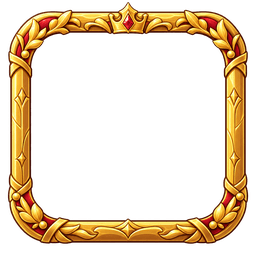
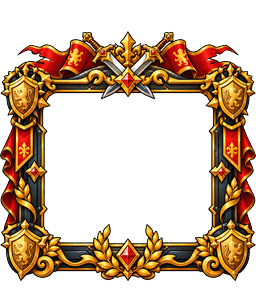
정복자 테두리
Claude-Session: https://claude.ai/code/session_011AypWsTwCXy5ahmKUPDYwt

diff --git a/sw.js b/sw.js
@@ -1,6 +1,6 @@
 /* 왕이 되는 그날까지 — 오프라인 실행용 서비스 워커 (tools/build_sw.py가 만듦, 직접 고치지 말 것) */
-const VERSION='3a3a8cc578';
-const MAP={"assets/bg/ash_far.png":"abfdc7ad7e","assets/bg/ash_ground.png":"fbd17f65c8","assets/bg/ash_mid.png":"bf807812ec","assets/bg/ash_sky.png":"300201d8a2","assets/bg/canyon_far.png":"a9cc422fed","assets/bg/canyon_ground.png":"d5f682c619","assets/bg/canyon_mid.png":"e5e4324591","assets/bg/canyon_sky.png":"9c202a64b5","assets/bg/dusk_far.png":"f566503025","assets/bg/dusk_ground.png":"d4760254fd","assets/bg/dusk_mid.png":"e0989d31a1","assets/bg/dusk_sky.png":"c82f7b61d3","assets/bg/erdan_far.png":"d094fc7ce5","assets/bg/erdan_ground.png":"d3529606e8","assets/bg/erdan_mid.png":"c8ad3804c1","assets/bg/erdan_sky.png":"1e05f8731e","assets/bg/frost_far.png":"19dad2ce88","assets/bg/frost_ground.png":"3b9d5fb014","assets/bg/frost_mid.png":"69a80fb601","assets/bg/frost_sky.png":"955f847347","assets/characters/brida_attack.png":"8a08e6bed8","assets/characters/brida_hit.png":"917e69900f","assets/characters/brida_idle.png":"9d37c07a5e","assets/characters/brida_walk.png":"35456db495","assets/characters/bron_attack.png":"3a0e0caf42","assets/characters/bron_hit.png":"84a7154e77","assets/characters/bron_idle.png":"61229dcc5b","assets/characters/bron_walk.png":"7dad3ba0f2","assets/characters/daisy_attack.png":"4b7c1426b9","assets/characters/daisy_hit.png":"8f1a0878af","assets/characters/daisy_idle.png":"61377c6830","assets/characters/daisy_walk.png":"d5f2435e50","assets/characters/gordon_attack.png":"68652efe05","assets/characters/gordon_hit.png":"c801ae79b5","assets/characters/gordon_idle.png":"3784327d72","assets/characters/gordon_walk.png":"2a61a74afb","assets/characters/haral_attack.png":"978f3afc3f","assets/characters/haral_hit.png":"213362f649","assets/characters/haral_idle.png":"8bf0bf6d20","assets/characters/haral_walk.png":"39e8f29d2f","assets/characters/kael_attack.png":"dbd47d1705","assets/characters/kael_hit.png":"b0fbed0ea5","assets/characters/kael_idle.png":"29cdfa8cdc","assets/characters/kael_walk.png":"884487f656","assets/characters/luka_attack.png":"10b694870b","assets/characters/luka_hit.png":"00d56f7f82","assets/characters/luka_idle.png":"0c7c261f4e","assets/characters/luka_walk.png":"ffde5d0b12","assets/characters/margo_attack.png":"5801b486be","assets/characters/margo_hit.png":"1340b2a211","assets/characters/margo_idle.png":"d44c7fa00a","assets/characters/margo_walk.png":"86be37ce75","assets/characters/nella_attack.png":"c56d9ca13c","assets/characters/nella_hit.png":"4b975ad670","assets/characters/nella_idle.png":"c666efcc20","assets/characters/nella_walk.png":"e4712b243c","assets/characters/riel_attack.png":"08dc86ec82","assets/characters/riel_hit.png":"22eb8eaca6","assets/characters/riel_idle.png":"3cf3652c06","assets/characters/riel_walk.png":"d429ca1f71","assets/crops/crop_carrot_1.png":"f521f1b21a","assets/crops/crop_carrot_2.png":"96412cae61","assets/crops/crop_carrot_3.png":"0caab08be8","assets/crops/crop_carrot_4.png":"631ee0ae4c","assets/crops/crop_pumpkin_1.png":"17da246fd2","assets/crops/crop_pumpkin_2.png":"4bd771eea2","assets/crops/crop_pumpkin_3.png":"b0e0de0917","assets/crops/crop_pumpkin_4.png":"4199c151ff","assets/crops/crop_wheat_1.png":"b2c4cba4cd","assets/crops/crop_wheat_2.png":"9f43ac98c5","assets/crops/crop_wheat_3.png":"1980c09851","assets/crops/crop_wheat_4.png":"96d9a3ad42","assets/crops/plot_empty.png":"bf40b6ed45","assets/fonts/hahmlet-500.woff2":"2e21f9e04c","assets/fonts/hahmlet-700.woff2":"cff1c42d55","assets/fonts/plexkr-400.woff2":"2185fb2e58","assets/fonts/plexkr-600.woff2":"760cba76f5","assets/fx/fx_bees.png":"a77e742ff9","assets/fx/fx_coin.png":"83d65bf09a","assets/fx/fx_crit.png":"08659b9d49","assets/fx/fx_harpoon.png":"84a4e2831d","assets/fx/fx_heal.png":"9ceeb9de2e","assets/fx/fx_hit.png":"b9b3abbcaf","assets/fx/fx_skill_brida.png":"55e34584e8","assets/fx/fx_skill_bron.png":"ecbc795a27","assets/fx/fx_skill_daisy.png":"4f3bb837b2","assets/fx/fx_skill_gordon.png":"1e8ac2eb87","assets/fx/fx_skill_haral.png":"5e1499b5c7","assets/fx/fx_skill_kael.png":"81aabe4d33","assets/fx/fx_skill_luka.png":"85cac3f606","assets/fx/fx_skill_margo.png":"ac0d3edc16","assets/fx/fx_skill_nella.png":"e508630a6f","assets/fx/fx_skill_riel.png":"47270c84f8","assets/fx/fx_soup.png":"4b941315f8","assets/gem/gem_pack_1.png":"fbaa0f6542","assets/gem/gem_pack_2.png":"89bccb5745","assets/gem/gem_pack_3.png":"5b0c3058fd","assets/gem/gem_pack_4.png":"4b01620dbd","assets/gem/gem_pack_5.png":"3d29e897fe","assets/gem/gem_pack_6.png":"5164494272","assets/gem/ui_gem.png":"d72701ba7d","assets/icon/apple-touch-icon.png":"e50c9e6bf1","assets/icon/favicon-16.png":"2db4311b5d","assets/icon/favicon-32.png":"440db49613","assets/icon/icon-192.png":"441e2997bd","assets/icon/icon-512.png":"eda2be997b","assets/illust/illust_join.jpg":"4d0406de00","assets/illust/illust_offline.jpg":"809bf511a2","assets/illust/illust_prologue.jpg":"9beba365b5","assets/illust/illust_retire.jpg":"74ff311a7f","assets/illust/illust_title.jpg":"006adb3633","assets/map/ash_boss.png":"a8be9e52dc","assets/map/ash_enemy.png":"d2262367aa","assets/map/canyon_boss.png":"6b7c17a49c","assets/map/canyon_enemy.png":"e2d7d4ebcd","assets/map/capital_locked.png":"c828d1f67a","assets/map/capital_open.png":"cee360a677","assets/map/dusk_boss.png":"dbf6d0b566","assets/map/dusk_enemy.png":"543dbb2608","assets/map/erdan_boss.png":"63719713d5","assets/map/erdan_enemy.png":"b3c3a8a4e9","assets/map/frost_boss.png":"6ec913cade","assets/map/frost_enemy.png":"87e0ecc588","assets/monsters/bat_shadow_attack.png":"733f900992","assets/monsters/bat_shadow_hit.png":"6c6777143a","assets/monsters/bat_shadow_walk.png":"4bdf69f59e","assets/monsters/boss_aldor_attack.png":"98d147de33","assets/monsters/boss_aldor_hit.png":"8ef2631028","assets/monsters/boss_aldor_walk.png":"dc30c29780","assets/monsters/boss_gromak_attack.png":"79580dc79a","assets/monsters/boss_gromak_hit.png":"8afa36ddae","assets/monsters/boss_gromak_walk.png":"508e49c3f2","assets/monsters/boss_ignis_attack.png":"b3792ddac0","assets/monsters/boss_ignis_hit.png":"39874ec8ec","assets/monsters/boss_ignis_walk.png":"745f03cf3c","assets/monsters/boss_morbas_attack.png":"b90b8b6dbd","assets/monsters/boss_morbas_hit.png":"b2e28fd059","assets/monsters/boss_morbas_walk.png":"c14aa48d24","assets/monsters/boss_seril_attack.png":"87c378c111","assets/monsters/boss_seril_hit.png":"8ee606e7e9","assets/monsters/boss_seril_walk.png":"630659de62","assets/monsters/goblin_gold_attack.png":"64a6f6f451","assets/monsters/goblin_gold_hit.png":"8b27eac950","assets/monsters/goblin_gold_walk.png":"c8a6e5c138","assets/monsters/goblin_pick_attack.png":"fa8e5c883f","assets/monsters/goblin_pick_hit.png":"066af0e709","assets/monsters/goblin_pick_walk.png":"e1f6d5d36a","assets/monsters/golem_steel_attack.png":"07e873d945","assets/monsters/golem_steel_hit.png":"67115529dc","assets/monsters/golem_steel_walk.png":"af9989172a","assets/monsters/imp_flame_attack.png":"9855e4f5e3","assets/monsters/imp_flame_hit.png":"ac4e28b83a","assets/monsters/imp_flame_walk.png":"6a0a835904","assets/monsters/scarecrow_cursed_attack.png":"19c1676923","assets/monsters/scarecrow_cursed_hit.png":"07f43ba22a","assets/monsters/scarecrow_cursed_walk.png":"0b7170d79c","assets/monsters/skeleton_frost_attack.png":"07648d88b9","assets/monsters/skeleton_frost_hit.png":"fcc108c10e","assets/monsters/skeleton_frost_walk.png":"74294ba7e2","assets/monsters/slime_ash_attack.png":"031d213acf","assets/monsters/slime_ash_hit.png":"ce2fa4d31b","assets/monsters/slime_ash_walk.png":"03ae7c49a4","assets/monsters/slime_plague_attack.png":"d4f6075abb","assets/monsters/slime_plague_hit.png":"bb74341a7e","assets/monsters/slime_plague_walk.png":"151b47bf12","assets/monsters/wolf_shadow_attack.png":"a6a83b34b8","assets/monsters/wolf_shadow_hit.png":"82a1af6e1d","assets/monsters/wolf_shadow_walk.png":"1251356e09","assets/monsters/wraith_frost_attack.png":"f5f41001fb","assets/monsters/wraith_frost_hit.png":"6348e92571","assets/monsters/wraith_frost_walk.png":"131c82c5ac","assets/portraits/portrait_aldor_idle.png":"07633d6214","assets/portraits/portrait_brida_idle.png":"cdf6882dec","assets/portraits/portrait_brida_laugh.png":"cde04938db","assets/portraits/portrait_bron_idle.png":"eb202419e5","assets/portraits/portrait_bron_laugh.png":"067dda71a1","assets/portraits/portrait_daisy_idle.png":"8b95fff77a","assets/portraits/portrait_daisy_laugh.png":"38c0f6471b","assets/portraits/portrait_gordon_idle.png":"9115efb052","assets/portraits/portrait_gordon_laugh.png":"03b62ce20f","assets/portraits/portrait_gromak_idle.png":"b4510b3437","assets/portraits/portrait_haral_idle.png":"8057bc4036","assets/portraits/portrait_haral_laugh.png":"c213936ee8","assets/portraits/portrait_ignis_idle.png":"6bb8479476","assets/portraits/portrait_kael_flustered.png":"dcbbe42cd0","assets/portraits/portrait_kael_idle.png":"2faad1bb9c","assets/portraits/portrait_kael_smile.png":"880d0b870c","assets/portraits/portrait_kael_surprised.png":"f49dfef839","assets/portraits/portrait_luka_idle.png":"ef693f34ba","assets/portraits/portrait_luka_laugh.png":"aafc2ba36c","assets/portraits/portrait_luminar_angry.png":"406fff108e","assets/portraits/portrait_luminar_moved.png":"ac97db5b14","assets/portraits/portrait_luminar_proud.png":"5a078f2d6f","assets/portraits/portrait_margo_idle.png":"a390d73c66","assets/portraits/portrait_margo_laugh.png":"6a6d2380f8","assets/portraits/portrait_marta_idle.png":"d86a9956f4","assets/portraits/portrait_morbas_idle.png":"1ed03a2888","assets/portraits/portrait_nella_idle.png":"b11813c857","assets/portraits/portrait_nella_laugh.png":"05ff86fd98","assets/portraits/portrait_pete_idle.png":"d14833cc91","assets/portraits/portrait_riel_idle.png":"31ca54792c","assets/portraits/portrait_riel_laugh.png":"40f5ce426b","assets/portraits/portrait_seril_idle.png":"52fb8d0eb1","assets/portraits/portrait_toby_idle.png":"ea6aef3ceb","assets/profile/badge_basket.png":"19ad639d98","assets/profile/badge_champ.png":"87c7d121ac","assets/profile/badge_chest.png":"1997070288","assets/profile/badge_crown1.png":"87c7d121ac","assets/profile/badge_crown2.png":"87c7d121ac","assets/profile/badge_crown3.png":"87c7d121ac","assets/profile/badge_goblin.png":"a97a7db198","assets/profile/badge_horns.png":"eb77cb7f93","assets/profile/badge_king.png":"87c7d121ac","assets/profile/badge_pumpkin.png":"e191405060","assets/profile/badge_rebuild.png":"100b0d8092","assets/profile/badge_retire.png":"68a96ee52e","assets/profile/badge_stew.png":"c5615ba22c","assets/profile/badge_top10.png":"87c7d121ac","assets/profile/frame_amethyst.png":"33596ec882","assets/profile/frame_conquer.png":"ac627fc7a3","assets/profile/frame_goblin.png":"206ee5a860","assets/profile/frame_gold.png":"ac627fc7a3","assets/profile/frame_harvest.png":"1b0b11ae0b","assets/profile/frame_holy.png":"1af08de6e7","assets/profile/frame_royal.png":"e21f45a33a","assets/profile/frame_season.png":"6f46cd6c32","assets/profile/frame_silver.png":"1db41ebcfa","assets/profile/frame_straw.png":"0810bf19b1","assets/profile/frame_wood.png":"99f33b8a46","assets/relic/relic_armor_1.png":"16d76a13c5","assets/relic/relic_armor_2.png":"87fb210070","assets/relic/relic_armor_3.png":"dd11fe2783","assets/relic/relic_boots_1.png":"d9a8c049ac","assets/relic/relic_boots_2.png":"efd27637b0","assets/relic/relic_boots_3.png":"5a612f2e27","assets/relic/relic_gloves_1.png":"5e8bee64d0","assets/relic/relic_gloves_2.png":"6795c922c5","assets/relic/relic_gloves_3.png":"67e14c6405","assets/relic/relic_helm_1.png":"455c59b819","assets/relic/relic_helm_2.png":"d18874e0e3","assets/relic/relic_helm_3.png":"cf800e2dad","assets/relic/relic_ring_1.png":"10edfdff76","assets/relic/relic_ring_2.png":"78a2cc0f51","assets/relic/relic_ring_3.png":"b2278ff8ee","assets/relic/relic_weapon_1.png":"dcc7c7540a","assets/relic/relic_weapon_2.png":"5fdd6cc2b3","assets/relic/relic_weapon_3.png":"f0135343bd","assets/skills/skill_brida.png":"0aa718bf0d","assets/skills/skill_bron.png":"08c7b35e76","assets/skills/skill_daisy.png":"8ee38fd0b9","assets/skills/skill_gordon.png":"28dcc7dd68","assets/skills/skill_haral.png":"d392acbc14","assets/skills/skill_kael.png":"85c628e6a9","assets/skills/skill_luka.png":"ed4206fe68","assets/skills/skill_margo.png":"1498522d74","assets/skills/skill_nella.png":"04dc833078","assets/skills/skill_riel.png":"7aca6249d7","assets/ui/banner_capture.png":"cdce0b7ac7","assets/ui/bld_apiary.png":"1c86733003","assets/ui/bld_diner.png":"386a2fd60f","assets/ui/bld_dock.png":"f0409530e4","assets/ui/bld_farm.png":"ba8a24d8a9","assets/ui/bld_inn.png":"6857ad2ff5","assets/ui/bld_mine.png":"db914dbca5","assets/ui/boss_aura_commander.png":"3f9d291d94","assets/ui/boss_aura_lord.png":"785308d542","assets/ui/boss_mark_commander.png":"77e1e1b4bb","assets/ui/boss_mark_lord.png":"123c1b4432","assets/ui/btn_auto.png":"bb952f4274","assets/ui/btn_x1.png":"f15e57f854","assets/ui/btn_x2.png":"cc3f2a2268","assets/ui/buff_atk.png":"9a886d1ff6","assets/ui/buff_crit.png":"2b2750f8d0","assets/ui/buff_gold.png":"1a7ca0cf7c","assets/ui/buff_spd.png":"dae9c3f56c","assets/ui/card_back.png":"2e995c839d","assets/ui/card_pack3.png":"c7e9ba66d2","assets/ui/card_pack30.png":"bae3246a77","assets/ui/dish_bread.png":"cfa0004d31","assets/ui/dish_grill.png":"b3f6aa56e7","assets/ui/dish_pie.png":"ef179cd895","assets/ui/dish_stew.png":"75628aa305","assets/ui/frame_dialog.png":"1d1d83a399","assets/ui/frame_epic.png":"69a0cfc775","assets/ui/frame_legendary.png":"9a8f6852ac","assets/ui/frame_mythic.png":"83201ca46e","assets/ui/frame_normal.png":"01b42af2db","assets/ui/frame_popup.png":"20dc37c6ff","assets/ui/frame_rare.png":"6e60a9625d","assets/ui/frame_uncommon.png":"c1f9ee4e31","assets/ui/gold_pack1.png":"86f82d080a","assets/ui/gold_pack2.png":"fa9b76580c","assets/ui/gold_pack3.png":"fb7d21eb5f","assets/ui/hd_mail.png":"c7d765daa3","assets/ui/hd_profile.png":"d6f1533dc1","assets/ui/hd_rank.png":"3d843cc8fc","assets/ui/hd_settings.png":"800b585221","assets/ui/icon_mail.png":"0218f23f44","assets/ui/item_carrot.png":"9d51a5ea72","assets/ui/item_fish.png":"2f62e8797b","assets/ui/item_honey.png":"fbdf3d5e01","assets/ui/item_ore.png":"6eb3cdcb49","assets/ui/item_pumpkin.png":"074c67fcb2","assets/ui/item_wheat.png":"69fac25d82","assets/ui/job_cook.png":"8ecd134595","assets/ui/job_fisher.png":"f8d9a89f41","assets/ui/job_keeper.png":"cac89bfa34","assets/ui/job_miner.png":"004c57a1e5","assets/ui/logo.png":"2d22e7ca80","assets/ui/node_boss.png":"c79760401f","assets/ui/node_captured.png":"0a83211c2b","assets/ui/node_current.png":"c4a3ba8982","assets/ui/node_enemy.png":"55c59af8ea","assets/ui/rank_count.png":"f0e9a8bd8c","assets/ui/rank_duke.png":"80cb0fc6fa","assets/ui/rank_farmer.png":"493f3b96e1","assets/ui/rank_guard.png":"8a70f1c39c","assets/ui/rank_king.png":"a34e27d982","assets/ui/rank_knight.png":"78adabb17a","assets/ui/rank_lord.png":"77bb49441a","assets/ui/relic_chest.png":"9311479aa1","assets/ui/seed_carrot.png":"f21317e672","assets/ui/seed_pumpkin.png":"de9e24a972","assets/ui/seed_wheat.png":"bc87c11aee","assets/ui/slot_armor.png":"83816d046b","assets/ui/slot_boots.png":"01c1c89cdb","assets/ui/slot_gloves.png":"483d5aba63","assets/ui/slot_hat.png":"45c39d6e0c","assets/ui/slot_ring.png":"3707240c55","assets/ui/slot_weapon.png":"d76a948b02","assets/ui/tab_equipment.png":"cebacb923b","assets/ui/tab_map.png":"5178bc1d54","assets/ui/tab_party.png":"80412a0e78","assets/ui/tab_training.png":"f090ee0719","assets/ui/tab_village.png":"87cabcf9cb","assets/ui/ui_boss_mark.png":"8fe434b274","assets/ui/ui_gold.png":"12070643fb","assets/ui/upg_atk.png":"f736f9ddc3","assets/ui/upg_crit.png":"8cf9c877a8","assets/ui/upg_hp.png":"f3d35d179c","assets/ui/upg_spd.png":"6d0b67053f","assets/ui/village_skill.png":"651e2edbde","assets/village/apiary_built.png":"001bb8753d","assets/village/apiary_ruin.png":"42a1170bd6","assets/village/diner_built.png":"50f46b5946","assets/village/diner_ruin.png":"e09f4a687d","assets/village/dock_built.png":"10894845e0","assets/village/dock_ruin.png":"975d3eea4f","assets/village/farm_built.png":"2331d98d5b","assets/village/farm_ruin.png":"6f4bde33f4","assets/village/inn_built.png":"75f5599f0b","assets/village/inn_ruin.png":"31dfd01982","assets/village/mine_built.png":"85b66e411e","assets/village/mine_ruin.png":"b773da1822","assets/village/village_bg.jpg":"d7046fd11a","favicon.ico":"48e226949a","manifest.webmanifest":"cba9531993"};
+const VERSION='7b1aa3d39a';
+const MAP={"assets/bg/ash_far.png":"abfdc7ad7e","assets/bg/ash_ground.png":"fbd17f65c8","assets/bg/ash_mid.png":"bf807812ec","assets/bg/ash_sky.png":"300201d8a2","assets/bg/canyon_far.png":"a9cc422fed","assets/bg/canyon_ground.png":"d5f682c619","assets/bg/canyon_mid.png":"e5e4324591","assets/bg/canyon_sky.png":"9c202a64b5","assets/bg/dusk_far.png":"f566503025","assets/bg/dusk_ground.png":"d4760254fd","assets/bg/dusk_mid.png":"e0989d31a1","assets/bg/dusk_sky.png":"c82f7b61d3","assets/bg/erdan_far.png":"d094fc7ce5","assets/bg/erdan_ground.png":"d3529606e8","assets/bg/erdan_mid.png":"c8ad3804c1","assets/bg/erdan_sky.png":"1e05f8731e","assets/bg/frost_far.png":"19dad2ce88","assets/bg/frost_ground.png":"3b9d5fb014","assets/bg/frost_mid.png":"69a80fb601","assets/bg/frost_sky.png":"955f847347","assets/characters/brida_attack.png":"8a08e6bed8","assets/characters/brida_hit.png":"917e69900f","assets/characters/brida_idle.png":"9d37c07a5e","assets/characters/brida_walk.png":"35456db495","assets/characters/bron_attack.png":"3a0e0caf42","assets/characters/bron_hit.png":"84a7154e77","assets/characters/bron_idle.png":"61229dcc5b","assets/characters/bron_walk.png":"7dad3ba0f2","assets/characters/daisy_attack.png":"4b7c1426b9","assets/characters/daisy_hit.png":"8f1a0878af","assets/characters/daisy_idle.png":"61377c6830","assets/characters/daisy_walk.png":"d5f2435e50","assets/characters/gordon_attack.png":"68652efe05","assets/characters/gordon_hit.png":"c801ae79b5","assets/characters/gordon_idle.png":"3784327d72","assets/characters/gordon_walk.png":"2a61a74afb","assets/characters/haral_attack.png":"978f3afc3f","assets/characters/haral_hit.png":"213362f649","assets/characters/haral_idle.png":"8bf0bf6d20","assets/characters/haral_walk.png":"39e8f29d2f","assets/characters/kael_attack.png":"dbd47d1705","assets/characters/kael_hit.png":"b0fbed0ea5","assets/characters/kael_idle.png":"29cdfa8cdc","assets/characters/kael_walk.png":"884487f656","assets/characters/luka_attack.png":"10b694870b","assets/characters/luka_hit.png":"00d56f7f82","assets/characters/luka_idle.png":"0c7c261f4e","assets/characters/luka_walk.png":"ffde5d0b12","assets/characters/margo_attack.png":"5801b486be","assets/characters/margo_hit.png":"1340b2a211","assets/characters/margo_idle.png":"d44c7fa00a","assets/characters/margo_walk.png":"86be37ce75","assets/characters/nella_attack.png":"c56d9ca13c","assets/characters/nella_hit.png":"4b975ad670","assets/characters/nella_idle.png":"c666efcc20","assets/characters/nella_walk.png":"e4712b243c","assets/characters/riel_attack.png":"08dc86ec82","assets/characters/riel_hit.png":"22eb8eaca6","assets/characters/riel_idle.png":"3cf3652c06","assets/characters/riel_walk.png":"d429ca1f71","assets/crops/crop_carrot_1.png":"f521f1b21a","assets/crops/crop_carrot_2.png":"96412cae61","assets/crops/crop_carrot_3.png":"0caab08be8","assets/crops/crop_carrot_4.png":"631ee0ae4c","assets/crops/crop_pumpkin_1.png":"17da246fd2","assets/crops/crop_pumpkin_2.png":"4bd771eea2","assets/crops/crop_pumpkin_3.png":"b0e0de0917","assets/crops/crop_pumpkin_4.png":"4199c151ff","assets/crops/crop_wheat_1.png":"b2c4cba4cd","assets/crops/crop_wheat_2.png":"9f43ac98c5","assets/crops/crop_wheat_3.png":"1980c09851","assets/crops/crop_wheat_4.png":"96d9a3ad42","assets/crops/plot_empty.png":"bf40b6ed45","assets/fonts/hahmlet-500.woff2":"2e21f9e04c","assets/fonts/hahmlet-700.woff2":"cff1c42d55","assets/fonts/plexkr-400.woff2":"2185fb2e58","assets/fonts/plexkr-600.woff2":"760cba76f5","assets/fx/fx_bees.png":"a77e742ff9","assets/fx/fx_coin.png":"83d65bf09a","assets/fx/fx_crit.png":"08659b9d49","assets/fx/fx_harpoon.png":"84a4e2831d","assets/fx/fx_heal.png":"9ceeb9de2e","assets/fx/fx_hit.png":"b9b3abbcaf","assets/fx/fx_skill_brida.png":"55e34584e8","assets/fx/fx_skill_bron.png":"ecbc795a27","assets/fx/fx_skill_daisy.png":"4f3bb837b2","assets/fx/fx_skill_gordon.png":"1e8ac2eb87","assets/fx/fx_skill_haral.png":"5e1499b5c7","assets/fx/fx_skill_kael.png":"81aabe4d33","assets/fx/fx_skill_luka.png":"85cac3f606","assets/fx/fx_skill_margo.png":"ac0d3edc16","assets/fx/fx_skill_nella.png":"e508630a6f","assets/fx/fx_skill_riel.png":"47270c84f8","assets/fx/fx_soup.png":"4b941315f8","assets/gem/gem_pack_1.png":"fbaa0f6542","assets/gem/gem_pack_2.png":"89bccb5745","assets/gem/gem_pack_3.png":"5b0c3058fd","assets/gem/gem_pack_4.png":"4b01620dbd","assets/gem/gem_pack_5.png":"3d29e897fe","assets/gem/gem_pack_6.png":"5164494272","assets/gem/ui_gem.png":"d72701ba7d","assets/icon/apple-touch-icon.png":"e50c9e6bf1","assets/icon/favicon-16.png":"2db4311b5d","assets/icon/favicon-32.png":"440db49613","assets/icon/icon-192.png":"441e2997bd","assets/icon/icon-512.png":"eda2be997b","assets/illust/illust_join.jpg":"4d0406de00","assets/illust/illust_offline.jpg":"809bf511a2","assets/illust/illust_prologue.jpg":"9beba365b5","assets/illust/illust_retire.jpg":"74ff311a7f","assets/illust/illust_title.jpg":"006adb3633","assets/map/ash_boss.png":"a8be9e52dc","assets/map/ash_enemy.png":"d2262367aa","assets/map/canyon_boss.png":"6b7c17a49c","assets/map/canyon_enemy.png":"e2d7d4ebcd","assets/map/capital_locked.png":"c828d1f67a","assets/map/capital_open.png":"cee360a677","assets/map/dusk_boss.png":"dbf6d0b566","assets/map/dusk_enemy.png":"543dbb2608","assets/map/erdan_boss.png":"63719713d5","assets/map/erdan_enemy.png":"b3c3a8a4e9","assets/map/frost_boss.png":"6ec913cade","assets/map/frost_enemy.png":"87e0ecc588","assets/monsters/bat_shadow_attack.png":"733f900992","assets/monsters/bat_shadow_hit.png":"6c6777143a","assets/monsters/bat_shadow_walk.png":"4bdf69f59e","assets/monsters/boss_aldor_attack.png":"98d147de33","assets/monsters/boss_aldor_hit.png":"8ef2631028","assets/monsters/boss_aldor_walk.png":"dc30c29780","assets/monsters/boss_gromak_attack.png":"79580dc79a","assets/monsters/boss_gromak_hit.png":"8afa36ddae","assets/monsters/boss_gromak_walk.png":"508e49c3f2","assets/monsters/boss_ignis_attack.png":"b3792ddac0","assets/monsters/boss_ignis_hit.png":"39874ec8ec","assets/monsters/boss_ignis_walk.png":"745f03cf3c","assets/monsters/boss_morbas_attack.png":"b90b8b6dbd","assets/monsters/boss_morbas_hit.png":"b2e28fd059","assets/monsters/boss_morbas_walk.png":"c14aa48d24","assets/monsters/boss_seril_attack.png":"87c378c111","assets/monsters/boss_seril_hit.png":"8ee606e7e9","assets/monsters/boss_seril_walk.png":"630659de62","assets/monsters/goblin_gold_attack.png":"64a6f6f451","assets/monsters/goblin_gold_hit.png":"8b27eac950","assets/monsters/goblin_gold_walk.png":"c8a6e5c138","assets/monsters/goblin_pick_attack.png":"fa8e5c883f","assets/monsters/goblin_pick_hit.png":"066af0e709","assets/monsters/goblin_pick_walk.png":"e1f6d5d36a","assets/monsters/golem_steel_attack.png":"07e873d945","assets/monsters/golem_steel_hit.png":"67115529dc","assets/monsters/golem_steel_walk.png":"af9989172a","assets/monsters/imp_flame_attack.png":"9855e4f5e3","assets/monsters/imp_flame_hit.png":"ac4e28b83a","assets/monsters/imp_flame_walk.png":"6a0a835904","assets/monsters/scarecrow_cursed_attack.png":"19c1676923","assets/monsters/scarecrow_cursed_hit.png":"07f43ba22a","assets/monsters/scarecrow_cursed_walk.png":"0b7170d79c","assets/monsters/skeleton_frost_attack.png":"07648d88b9","assets/monsters/skeleton_frost_hit.png":"fcc108c10e","assets/monsters/skeleton_frost_walk.png":"74294ba7e2","assets/monsters/slime_ash_attack.png":"031d213acf","assets/monsters/slime_ash_hit.png":"ce2fa4d31b","assets/monsters/slime_ash_walk.png":"03ae7c49a4","assets/monsters/slime_plague_attack.png":"d4f6075abb","assets/monsters/slime_plague_hit.png":"bb74341a7e","assets/monsters/slime_plague_walk.png":"151b47bf12","assets/monsters/wolf_shadow_attack.png":"a6a83b34b8","assets/monsters/wolf_shadow_hit.png":"82a1af6e1d","assets/monsters/wolf_shadow_walk.png":"1251356e09","assets/monsters/wraith_frost_attack.png":"f5f41001fb","assets/monsters/wraith_frost_hit.png":"6348e92571","assets/monsters/wraith_frost_walk.png":"131c82c5ac","assets/portraits/portrait_aldor_idle.png":"07633d6214","assets/portraits/portrait_brida_idle.png":"cdf6882dec","assets/portraits/portrait_brida_laugh.png":"cde04938db","assets/portraits/portrait_bron_idle.png":"eb202419e5","assets/portraits/portrait_bron_laugh.png":"067dda71a1","assets/portraits/portrait_daisy_idle.png":"8b95fff77a","assets/portraits/portrait_daisy_laugh.png":"38c0f6471b","assets/portraits/portrait_gordon_idle.png":"9115efb052","assets/portraits/portrait_gordon_laugh.png":"03b62ce20f","assets/portraits/portrait_gromak_idle.png":"b4510b3437","assets/portraits/portrait_haral_idle.png":"8057bc4036","assets/portraits/portrait_haral_laugh.png":"c213936ee8","assets/portraits/portrait_ignis_idle.png":"6bb8479476","assets/portraits/portrait_kael_flustered.png":"dcbbe42cd0","assets/portraits/portrait_kael_idle.png":"2faad1bb9c","assets/portraits/portrait_kael_smile.png":"880d0b870c","assets/portraits/portrait_kael_surprised.png":"f49dfef839","assets/portraits/portrait_luka_idle.png":"ef693f34ba","assets/portraits/portrait_luka_laugh.png":"aafc2ba36c","assets/portraits/portrait_luminar_angry.png":"406fff108e","assets/portraits/portrait_luminar_moved.png":"ac97db5b14","assets/portraits/portrait_luminar_proud.png":"5a078f2d6f","assets/portraits/portrait_margo_idle.png":"a390d73c66","assets/portraits/portrait_margo_laugh.png":"6a6d2380f8","assets/portraits/portrait_marta_idle.png":"d86a9956f4","assets/portraits/portrait_morbas_idle.png":"1ed03a2888","assets/portraits/portrait_nella_idle.png":"b11813c857","assets/portraits/portrait_nella_laugh.png":"05ff86fd98","assets/portraits/portrait_pete_idle.png":"d14833cc91","assets/portraits/portrait_riel_idle.png":"31ca54792c","assets/portraits/portrait_riel_laugh.png":"40f5ce426b","assets/portraits/portrait_seril_idle.png":"52fb8d0eb1","assets/portraits/portrait_toby_idle.png":"ea6aef3ceb","assets/profile/badge_basket.png":"19ad639d98","assets/profile/badge_champ.png":"87c7d121ac","assets/profile/badge_chest.png":"1997070288","assets/profile/badge_crown1.png":"87c7d121ac","assets/profile/badge_crown2.png":"87c7d121ac","assets/profile/badge_crown3.png":"87c7d121ac","assets/profile/badge_goblin.png":"a97a7db198","assets/profile/badge_horns.png":"eb77cb7f93","assets/profile/badge_king.png":"87c7d121ac","assets/profile/badge_pumpkin.png":"e191405060","assets/profile/badge_rebuild.png":"100b0d8092","assets/profile/badge_retire.png":"68a96ee52e","assets/profile/badge_stew.png":"c5615ba22c","assets/profile/badge_top10.png":"87c7d121ac","assets/profile/frame_amethyst.png":"33596ec882","assets/profile/frame_conquer.png":"1ba25528f4","assets/profile/frame_goblin.png":"206ee5a860","assets/profile/frame_gold.png":"ac627fc7a3","assets/profile/frame_harvest.png":"1b0b11ae0b","assets/profile/frame_holy.png":"1af08de6e7","assets/profile/frame_royal.png":"e21f45a33a","assets/profile/frame_season.png":"6f46cd6c32","assets/profile/frame_silver.png":"1db41ebcfa","assets/profile/frame_straw.png":"0810bf19b1","assets/profile/frame_wood.png":"99f33b8a46","assets/relic/relic_armor_1.png":"16d76a13c5","assets/relic/relic_armor_2.png":"87fb210070","assets/relic/relic_armor_3.png":"dd11fe2783","assets/relic/relic_boots_1.png":"d9a8c049ac","assets/relic/relic_boots_2.png":"efd27637b0","assets/relic/relic_boots_3.png":"5a612f2e27","assets/relic/relic_gloves_1.png":"5e8bee64d0","assets/relic/relic_gloves_2.png":"6795c922c5","assets/relic/relic_gloves_3.png":"67e14c6405","assets/relic/relic_helm_1.png":"455c59b819","assets/relic/relic_helm_2.png":"d18874e0e3","assets/relic/relic_helm_3.png":"cf800e2dad","assets/relic/relic_ring_1.png":"10edfdff76","assets/relic/relic_ring_2.png":"78a2cc0f51","assets/relic/relic_ring_3.png":"b2278ff8ee","assets/relic/relic_weapon_1.png":"dcc7c7540a","assets/relic/relic_weapon_2.png":"5fdd6cc2b3","assets/relic/relic_weapon_3.png":"f0135343bd","assets/skills/skill_brida.png":"0aa718bf0d","assets/skills/skill_bron.png":"08c7b35e76","assets/skills/skill_daisy.png":"8ee38fd0b9","assets/skills/skill_gordon.png":"28dcc7dd68","assets/skills/skill_haral.png":"d392acbc14","assets/skills/skill_kael.png":"85c628e6a9","assets/skills/skill_luka.png":"ed4206fe68","assets/skills/skill_margo.png":"1498522d74","assets/skills/skill_nella.png":"04dc833078","assets/skills/skill_riel.png":"7aca6249d7","assets/ui/banner_capture.png":"cdce0b7ac7","assets/ui/bld_apiary.png":"1c86733003","assets/ui/bld_diner.png":"386a2fd60f","assets/ui/bld_dock.png":"f0409530e4","assets/ui/bld_farm.png":"ba8a24d8a9","assets/ui/bld_inn.png":"6857ad2ff5","assets/ui/bld_mine.png":"db914dbca5","assets/ui/boss_aura_commander.png":"3f9d291d94","assets/ui/boss_aura_lord.png":"785308d542","assets/ui/boss_mark_commander.png":"77e1e1b4bb","assets/ui/boss_mark_lord.png":"123c1b4432","assets/ui/btn_auto.png":"bb952f4274","assets/ui/btn_x1.png":"f15e57f854","assets/ui/btn_x2.png":"cc3f2a2268","assets/ui/buff_atk.png":"9a886d1ff6","assets/ui/buff_crit.png":"2b2750f8d0","assets/ui/buff_gold.png":"1a7ca0cf7c","assets/ui/buff_spd.png":"dae9c3f56c","assets/ui/card_back.png":"2e995c839d","assets/ui/card_pack3.png":"c7e9ba66d2","assets/ui/card_pack30.png":"bae3246a77","assets/ui/dish_bread.png":"cfa0004d31","assets/ui/dish_grill.png":"b3f6aa56e7","assets/ui/dish_pie.png":"ef179cd895","assets/ui/dish_stew.png":"75628aa305","assets/ui/frame_dialog.png":"1d1d83a399","assets/ui/frame_epic.png":"69a0cfc775","assets/ui/frame_legendary.png":"9a8f6852ac","assets/ui/frame_mythic.png":"83201ca46e","assets/ui/frame_normal.png":"01b42af2db","assets/ui/frame_popup.png":"20dc37c6ff","assets/ui/frame_rare.png":"6e60a9625d","assets/ui/frame_uncommon.png":"c1f9ee4e31","assets/ui/gold_pack1.png":"86f82d080a","assets/ui/gold_pack2.png":"fa9b76580c","assets/ui/gold_pack3.png":"fb7d21eb5f","assets/ui/hd_mail.png":"c7d765daa3","assets/ui/hd_profile.png":"d6f1533dc1","assets/ui/hd_rank.png":"3d843cc8fc","assets/ui/hd_settings.png":"800b585221","assets/ui/icon_mail.png":"0218f23f44","assets/ui/item_carrot.png":"9d51a5ea72","assets/ui/item_fish.png":"2f62e8797b","assets/ui/item_honey.png":"fbdf3d5e01","assets/ui/item_ore.png":"6eb3cdcb49","assets/ui/item_pumpkin.png":"074c67fcb2","assets/ui/item_wheat.png":"69fac25d82","assets/ui/job_cook.png":"8ecd134595","assets/ui/job_fisher.png":"f8d9a89f41","assets/ui/job_keeper.png":"cac89bfa34","assets/ui/job_miner.png":"004c57a1e5","assets/ui/logo.png":"2d22e7ca80","assets/ui/node_boss.png":"c79760401f","assets/ui/node_captured.png":"0a83211c2b","assets/ui/node_current.png":"c4a3ba8982","assets/ui/node_enemy.png":"55c59af8ea","assets/ui/rank_count.png":"f0e9a8bd8c","assets/ui/rank_duke.png":"80cb0fc6fa","assets/ui/rank_farmer.png":"493f3b96e1","assets/ui/rank_guard.png":"8a70f1c39c","assets/ui/rank_king.png":"a34e27d982","assets/ui/rank_knight.png":"78adabb17a","assets/ui/rank_lord.png":"77bb49441a","assets/ui/relic_chest.png":"9311479aa1","assets/ui/seed_carrot.png":"f21317e672","assets/ui/seed_pumpkin.png":"de9e24a972","assets/ui/seed_wheat.png":"bc87c11aee","assets/ui/slot_armor.png":"83816d046b","assets/ui/slot_boots.png":"01c1c89cdb","assets/ui/slot_gloves.png":"483d5aba63","assets/ui/slot_hat.png":"45c39d6e0c","assets/ui/slot_ring.png":"3707240c55","assets/ui/slot_weapon.png":"d76a948b02","assets/ui/tab_equipment.png":"cebacb923b","assets/ui/tab_map.png":"5178bc1d54","assets/ui/tab_party.png":"80412a0e78","assets/ui/tab_training.png":"f090ee0719","assets/ui/tab_village.png":"87cabcf9cb","assets/ui/ui_boss_mark.png":"8fe434b274","assets/ui/ui_gold.png":"12070643fb","assets/ui/upg_atk.png":"f736f9ddc3","assets/ui/upg_crit.png":"8cf9c877a8","assets/ui/upg_hp.png":"f3d35d179c","assets/ui/upg_spd.png":"6d0b67053f","assets/ui/village_skill.png":"651e2edbde","assets/village/apiary_built.png":"001bb8753d","assets/village/apiary_ruin.png":"42a1170bd6","assets/village/diner_built.png":"50f46b5946","assets/village/diner_ruin.png":"e09f4a687d","assets/village/dock_built.png":"10894845e0","assets/village/dock_ruin.png":"975d3eea4f","assets/village/farm_built.png":"2331d98d5b","assets/village/farm_ruin.png":"6f4bde33f4","assets/village/inn_built.png":"75f5599f0b","assets/village/inn_ruin.png":"31dfd01982","assets/village/mine_built.png":"85b66e411e","assets/village/mine_ruin.png":"b773da1822","assets/village/village_bg.jpg":"d7046fd11a","favicon.ico":"48e226949a","manifest.webmanifest":"cba9531993"};
 const PAGE='kd-page',FILES='kd-files';
 const base=self.registration.scope;
 const key=(p,h)=>new URL(p,base).href+'?v='+h;

diff --git a/index.html b/index.html
@@ -1824,7 +1824,7 @@ const PFRAMES=[
  {k:'royal',n:'붉은 왕관',d:'칭호 공작',ok:()=>rankIdx()>=5},
  {k:'goblin',n:'황금 고블린',d:'황금 고블린 희귀 전리품',ok:()=>false,rare:1,tall:1},
  {k:'season',n:'시즌 왕관',d:'시즌 랭킹 1위 보상',ok:()=>false,rk:1,tall:1},
- {k:'conquer',n:'정복자',d:'영지 50곳 탈환 · 명예의 전당 보상',ok:()=>false,rk:1}];
+ {k:'conquer',n:'정복자',d:'영지 50곳 탈환 · 명예의 전당 보상',ok:()=>false,rk:1,tall:1}];
 const pfTall=k=>(PFRAMES.find(f=>f.k===k)||{}).tall?' tall':'';
 const stat=(k,n)=>{if(!S.stat)S.stat={};S.stat[k]=(S.stat[k]||0)+n},st=k=>(S.stat&&S.stat[k])||0;
 const BADGES=[
